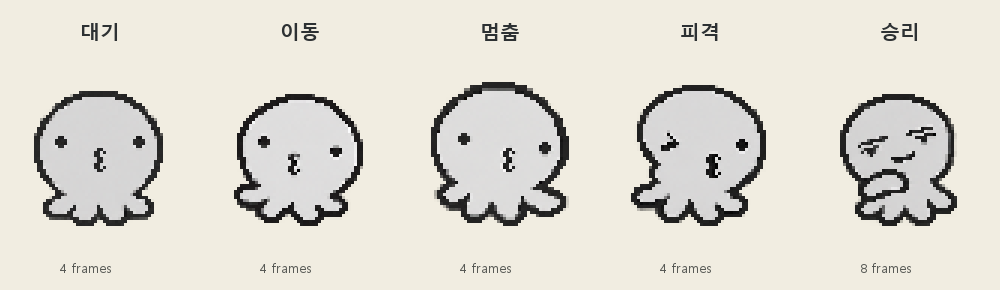
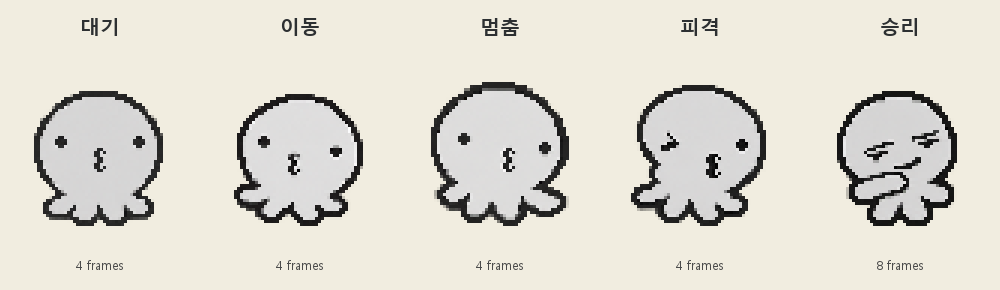
캐릭터: 승리 모션 가슴 팝과 촉수 동작 수정

diff --git a/docs/검증/octopus-character-assets/README.md b/docs/검증/octopus-character-assets/README.md
@@ -10,7 +10,7 @@
 | 이동 | [walk-64.png](walk-64.png) | 4 | 각 130 ms |
 | 멈춤 | [stop-64.png](stop-64.png) | 4 | 100 / 90 / 120 / 650 ms |
 | 피격 | [hit-64.png](hit-64.png) | 4 | 100 / 90 / 140 / 750 ms |
-| 승리 | [victory-64.png](victory-64.png) | 8 | 150 / 120 / 170 / 120 / 130 / 120 / 150 / 280 ms |
+| 승리 | [victory-64.png](victory-64.png) | 8 | 160 / 90 / 50 / 70 / 90 / 110 / 130 / 180 ms |
 
 각 시트는 64×64 셀을 가로로 붙인 RGBA PNG다. 정규화된 발 기준 pivot=(0.5, 0.125). 원본 생성 시트는 source/에 보존했다. 셀 분리·공통 크기 조정은 원본을 다시 그리지 않고 nearest-neighbor로 수행했다. 동작별 원본 비례를 유지하고 프레임 간 발 기준을 맞췄다.
 
@@ -22,6 +22,8 @@ Unity 가져오기 권장: Sprite (2D and UI), Multiple, Grid by Cell Size 64×6
 - [승리 춤 GIF](victory-preview.gif)
 - [대기](idle-preview.gif), [이동](walk-preview.gif), [멈춤](stop-preview.gif), [피격](hit-preview.gif)
 
-승리 모션은 [ATEEZ 공식 BAD Choreography Demo (SAN Ver.)](https://www.youtube.com/watch?v=vcbIP2YvDOo)의 상체 기울임·손을 이마 쪽으로 올리는 동작·가슴 앞 팔 동작을 짧은 문어 촉수 동작으로 각색했다. 원곡 음원이나 영상 프레임은 에셋에 포함하지 않았다.
+승리 모션은 사용자가 지정한 [최산 BAD 쇼츠](https://www.youtube.com/shorts/4K5AkSQpr2w)의 가슴 팝과 가슴 앞 손 동작을 문어 촉수로 각색했다. 몸통의 작은 팝과 같은 앞쪽 촉수의 밀기·당기기만 0.88초로 반복한다. 64×64 크기에 맞춰 가슴 움직임은 작게 표현하고, 두 안쪽 발은 고정했다. 이마 손짓·팔 펼침·다른 춤 구간은 제외했다. 원곡 음원이나 영상 프레임은 에셋에 포함하지 않았다.
 
-제작: imagegen 내장 도구. 정확한 생성 프롬프트는 [prompts.json](prompts.json), 셀 크기·피벗·프레임별 시간은 [manifest.json](manifest.json)에 기록했다. PNG 알파와 시트 크기, 모든 GIF의 프레임 디코딩을 확인했다.
+승리 시트는 알파 128 초과 영역의 경계를 기준으로 셀을 분리하고, 전체 프레임 높이 중앙값이 44픽셀이 되는 공통 배율을 적용했다. 각 프레임의 아래쪽 8% 불투명 영역 중심을 발 앵커로 삼아 x=32, 하단 y=56에 정렬했다. GIF는 256×256 nearest-neighbor 확대, 배경 RGB(222,216,199), 무한 반복이다. 전체 미리보기는 새 승리 2회 분량인 1.76초이며 각 동작의 실제 프레임 전환 시점을 사용한다.
+
+제작: imagegen 내장 도구. 정확한 생성·수정 프롬프트는 [prompts.json](prompts.json), 셀 크기·피벗·프레임별 시간은 [manifest.json](manifest.json)에 기록했다. PNG 알파와 시트 크기, 모든 GIF의 프레임 디코딩 및 승리 8프레임의 외형·촉수 연결을 확인했다. 대기·이동·멈춤·피격 에셋은 기존 파일 그대로 유지했다.

diff --git a/docs/구조/characters/NOTES.md b/docs/구조/characters/NOTES.md
@@ -4,4 +4,4 @@
 
 - 카메라 11, 캐릭터 화면 높이 4%. Shift+이동 방향 대시(22속도, 0.18초), 3초 순차 충전, 기본 1회/희귀 강화 2회. 서버 판정과 지형 충돌을 사용하며 다운·전투 종료 시 진행 중 대시를 취소한다.
 
-- 2026-10-16: 사용자 회색 문어 그림을 기준으로 대기/이동/멈춤/피격 각4프레임, 승리8프레임(총24) 투명 PNG 에셋 제작. 64×64 공통 셀과 발 피벗으로 정렬, 전체 및 동작별 GIF 검증. 승리는 최산 BAD 공식 안무의 상체 기울임/이마 손짓/가슴 앞 팔 동작을 문어 촉수로 각색. docs/검증/octopus-character-assets에 원본·시트·프롬프트·미리보기 저장. 실제 플레이어 교체는 미적용.
+- 2026-10-16: 사용자 회색 문어 그림을 기준으로 대기/이동/멈춤/피격 각4프레임, 승리8프레임(총24) 투명 PNG 에셋 제작. 승리는 지정 BAD 쇼츠의 작은 가슴 팝과 가슴 앞 촉수의 밀기·당기기만 0.88초 반복으로 수정했고, 이마 손짓/팔 펼침은 제거했다. 다른 네 동작은 유지. 64×64 공통 셀과 발 피벗, 전체/동작별 GIF 및 알파 검증. docs/검증/octopus-character-assets에 원본·시트·프롬프트·미리보기 저장. 실제 플레이어 교체는 미적용.
